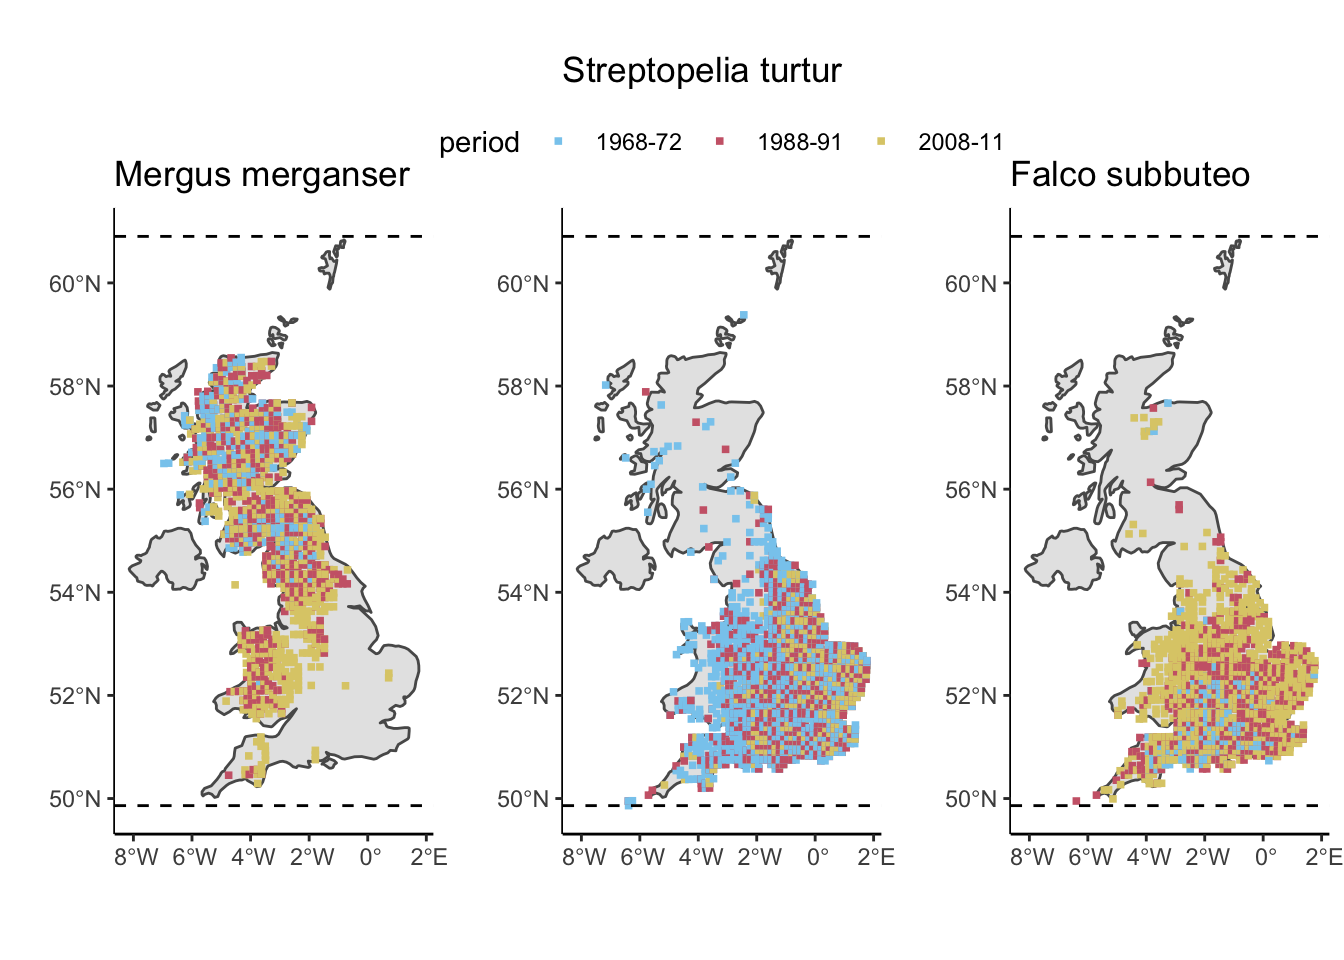
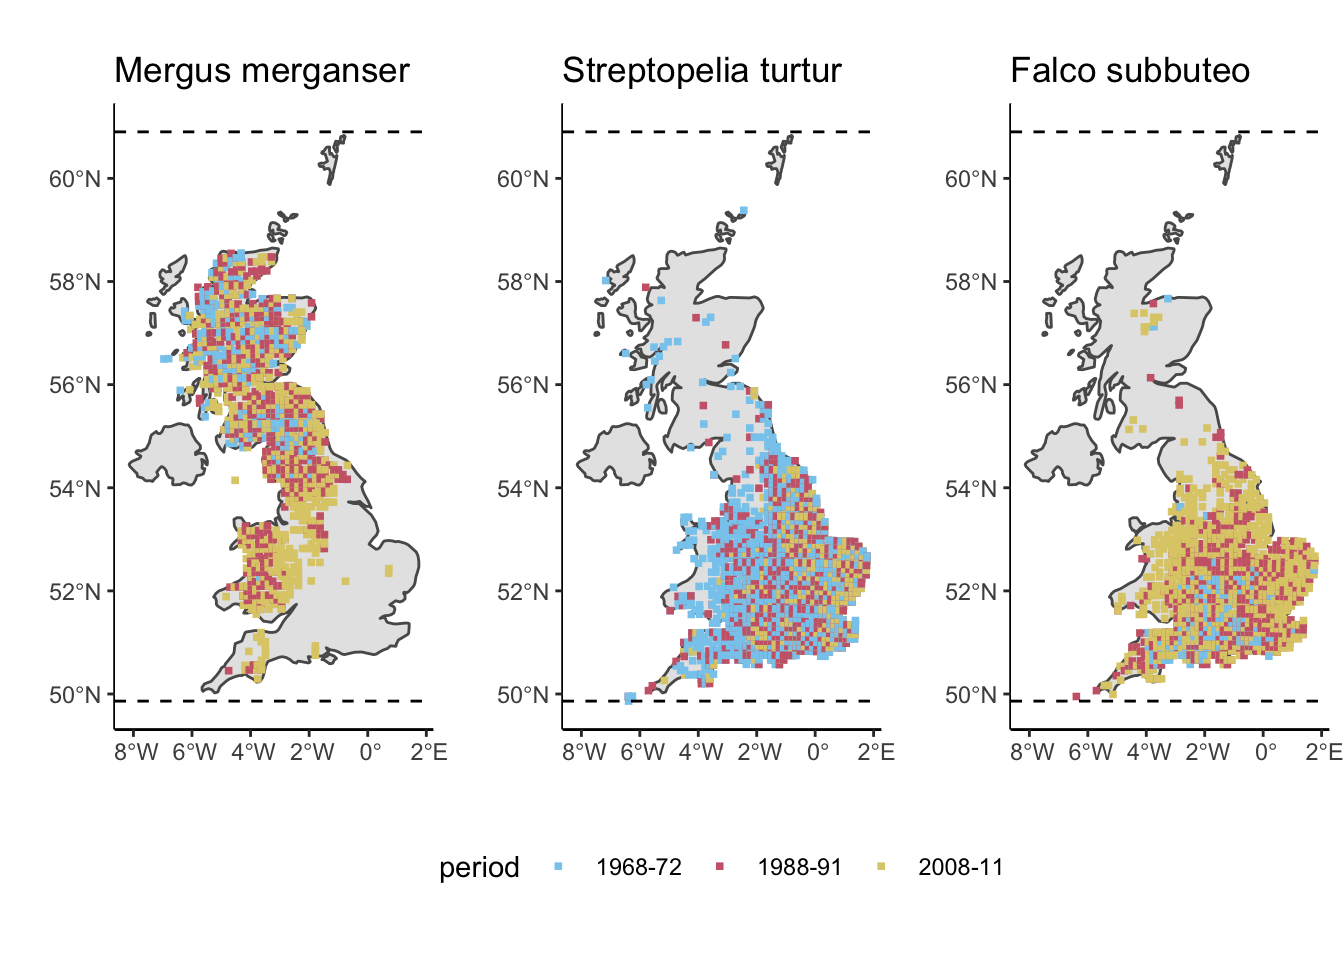
maps for lesson 4

diff --git a/lesson-4.html b/lesson-4.html
@@ -319,7 +319,6 @@ BTO_sp &lt;- read.csv(&quot;https://raw.githubusercontent.com/mlurgi/serrapilhei
 ## BTO grid data
 BTO_grid &lt;- read.csv(&quot;https://raw.githubusercontent.com/mlurgi/serrapilheira_eco_networks/master/datasets/bto/grid_square_coordinates_lookup.csv&quot;, header=T)
 
-
 # Subset distribution data to Britain. This is no longer necessary due to the pre-filtered database, but I left it here for illustration
 BTO_distrib &lt;- as_tibble(BTO_distrib) %&gt;% filter(island==&quot;B&quot; &amp; season==&quot;B&quot; &amp; resolution==10)
 
@@ -332,7 +331,6 @@ BTO_distrib$Pres &lt;- 1
 
 #####################
 # Grid and BTO Locations
-
 # Coordinates: We obtain the coordinates of the centre for each grid cell
 Coord10 &lt;- as_tibble(BTO_grid) %&gt;%
   dplyr::filter(resolution==10 &amp; order&lt;5) %&gt;%
@@ -349,19 +347,16 @@ Loc10 &lt;- Loc10 %&gt;%  filter(!is.na(long) &amp; !is.na(lat))
 
 # Plot the coordinates on the map to make sure they make sense
 ggplot(data = sf_UK) + geom_sf() +
-  geom_point(data = Loc10, aes(x = long, y = lat), size = 1, shape = 23, fill = &quot;darkred&quot;)
-
-# Join coordinates to occurrence data
+  geom_point(data = Loc10, aes(x = long, y = lat), size = 1, shape = 23, fill = &quot;darkred&quot;)</code></pre>
+<p><img src="lesson-4_files/figure-html/unnamed-chunk-1-1.png" width="100%" style="display: block; margin: auto;" /></p>
+<pre class="r"><code># Join coordinates to occurrence data
 BTO_distrib &lt;- BTO_distrib %&gt;%  left_join(Loc10, by=&#39;grid&#39;)
 BTO_distrib &lt;- BTO_distrib %&gt;% filter(!is.na(long) &amp; !is.na(lat))
 
-
 #####################
 # BTO Species
-
 ## 3 different periods
 period &lt;- unique(BTO_distrib$period)
-period
 
 # Nb of grid cells species have been observed
 Ngrid &lt;- BTO_distrib %&gt;%
@@ -375,37 +370,45 @@ Spec  &lt;- Spec %&gt;%  left_join(Ngrid, by = c(&quot;speccode&quot; = &quot;sp
 # We only consider species present in at least 50 cells across all time periods
 Spec  &lt;- Spec %&gt;% filter(P.1&gt;=50 &amp; P.2&gt;=50 &amp; P.3&gt;=50) 
 
-
 # Now that we have the data organised we can look at the range shift of some sample species through time
 safe_colorblind_palette &lt;- c(&quot;#88CCEE&quot;, &quot;#CC6677&quot;, &quot;#DDCC77&quot;)
 
 #################
 loc = merge(Loc10, BTO_distrib[which(BTO_distrib$speccode == 95),])
-Spec[which(Spec$speccode == 95),]
-
-a &lt;- ggplot(data = sf_UK) + geom_sf() + geom_point(data = loc, aes(x = long, y = lat, colour = period), size = 1, shape = 15) + scale_colour_manual(values = safe_colorblind_palette[1:3])+
+Spec[which(Spec$speccode == 95),]</code></pre>
+<pre><code>## # A tibble: 1 × 7
+##   speccode english_name scientific_name  taxonomic_rank   P.1   P.2   P.3
+##      &lt;int&gt; &lt;chr&gt;        &lt;chr&gt;            &lt;chr&gt;          &lt;int&gt; &lt;int&gt; &lt;int&gt;
+## 1       95 Goosander    Mergus merganser Species          411   674   870</code></pre>
+<pre class="r"><code>a &lt;- ggplot(data = sf_UK) + geom_sf() + geom_point(data = loc, aes(x = long, y = lat, colour = period), size = 1, shape = 15) + scale_colour_manual(values = safe_colorblind_palette[1:3])+
   geom_hline(yintercept = max(BTO_distrib$lat), linetype=&quot;dashed&quot;) + geom_hline(yintercept = min(BTO_distrib$lat), linetype=&quot;dashed&quot;) + 
   ggtitle(&quot;Mergus merganser&quot;) + ylab(&quot;&quot;) + xlab(&quot;&quot;) + theme_classic(base_size =  11) + theme(legend.position = &#39;none&#39;)
 
 #################
 loc = merge(Loc10, BTO_distrib[which(BTO_distrib$speccode == 272),])
-Spec[which(Spec$speccode == 272),]
-
-b &lt;- ggplot(data = sf_UK) + geom_sf() + geom_point(data = loc, aes(x = long, y = lat, colour = period), size = 1, shape = 15) + scale_colour_manual(values = safe_colorblind_palette[1:3])+
+Spec[which(Spec$speccode == 272),]</code></pre>
+<pre><code>## # A tibble: 1 × 7
+##   speccode english_name scientific_name     taxonomic_rank   P.1   P.2   P.3
+##      &lt;int&gt; &lt;chr&gt;        &lt;chr&gt;               &lt;chr&gt;          &lt;int&gt; &lt;int&gt; &lt;int&gt;
+## 1      272 Turtle Dove  Streptopelia turtur Species         1252   940   617</code></pre>
+<pre class="r"><code>b &lt;- ggplot(data = sf_UK) + geom_sf() + geom_point(data = loc, aes(x = long, y = lat, colour = period), size = 1, shape = 15) + scale_colour_manual(values = safe_colorblind_palette[1:3])+
   geom_hline(yintercept = max(BTO_distrib$lat), linetype=&quot;dashed&quot;) + geom_hline(yintercept = min(BTO_distrib$lat), linetype=&quot;dashed&quot;) + 
-  ggtitle(&quot;Streptopelia turtur&quot;) + ylab(&quot;&quot;) + xlab(&quot;&quot;) + theme_classic(base_size =  11) + theme(legend.position = &#39;top&#39;)
+  ggtitle(&quot;Streptopelia turtur&quot;) + ylab(&quot;&quot;) + xlab(&quot;&quot;) + theme_classic(base_size =  11) + theme(legend.position = &#39;bottom&#39;)
 
 #################
 loc = merge(Loc10, BTO_distrib[which(BTO_distrib$speccode == 120),])
-Spec[which(Spec$speccode == 120),]
-
-c &lt;- ggplot(data = sf_UK) + geom_sf() + geom_point(data = loc, aes(x = long, y = lat, colour = period), size = 1, shape = 15) + scale_colour_manual(values = safe_colorblind_palette[1:3])+
+Spec[which(Spec$speccode == 120),]</code></pre>
+<pre><code>## # A tibble: 1 × 7
+##   speccode english_name scientific_name taxonomic_rank   P.1   P.2   P.3
+##      &lt;int&gt; &lt;chr&gt;        &lt;chr&gt;           &lt;chr&gt;          &lt;int&gt; &lt;int&gt; &lt;int&gt;
+## 1      120 Hobby        Falco subbuteo  Species          259   625  1033</code></pre>
+<pre class="r"><code>c &lt;- ggplot(data = sf_UK) + geom_sf() + geom_point(data = loc, aes(x = long, y = lat, colour = period), size = 1, shape = 15) + scale_colour_manual(values = safe_colorblind_palette[1:3])+
   geom_hline(yintercept = max(BTO_distrib$lat), linetype=&quot;dashed&quot;) + geom_hline(yintercept = min(BTO_distrib$lat), linetype=&quot;dashed&quot;) + 
   ggtitle(&quot;Falco subbuteo&quot;) + ylab(&quot;&quot;) + xlab(&quot;&quot;) + theme_classic(base_size =  11) + theme(legend.position = &#39;none&#39;)
 
-ggarrange(a,b,c,nrow=1)
-
-#####################
+ggarrange(a,b,c,nrow=1)</code></pre>
+<p><img src="lesson-4_files/figure-html/unnamed-chunk-1-2.png" width="100%" style="display: block; margin: auto;" /></p>
+<pre class="r"><code>#####################
 # And lastly, we compute range shifts!
 
 ## Here we quantify range shift as the difference in mean location of the 20 most northern records (leading edge) between the time period P.1 and the time period P.3. I.e. the northern edge shift from 1972 to 2011
@@ -427,15 +430,16 @@ lat.all_P.1 &lt;- sort(data.frame(BTO_distrib %&gt;% filter(speccode == spec_spe
 }
 
 # Now we plot the range shifts ranked by magnitude
-plot(rank(df_rangeshift$shift_max20_P.1.3), df_rangeshift$shift_max20_P.1.3, pch=16, xlab=&#39;rank&#39;, ylab=&#39;northern edge shift&#39;)
-
-# And how the shift relates to the centre of the range...
+plot(rank(df_rangeshift$shift_max20_P.1.3), df_rangeshift$shift_max20_P.1.3, pch=16, xlab=&#39;rank&#39;, ylab=&#39;northern edge shift&#39;)</code></pre>
+<p><img src="lesson-4_files/figure-html/unnamed-chunk-1-3.png" width="100%" style="display: block; margin: auto;" /></p>
+<pre class="r"><code># And how the shift relates to the centre of the range...
 plot(df_rangeshift$lat_centre_P.1, df_rangeshift$shift_max20_P.1.3, pch=16, xlab=&#39;latitudinal centre&#39;, ylab=&#39;range shift&#39;)</code></pre>
+<p><img src="lesson-4_files/figure-html/unnamed-chunk-1-4.png" width="100%" style="display: block; margin: auto;" /></p>
 </div>
 <div id="body-size" class="section level3">
 <h3>Body size</h3>
 <p><img src="lesson-images/temp-vs-size.png"
-style="float:right; padding-left:10px" width="200" /></p>
+style="float:right; padding-left:10px" width="300" /></p>
 <p>A second universal response to climate change is changes on body
 size. Both within species and the distribution of body sizes across
 species within communities. This response can be linked to three
@@ -499,6 +503,7 @@ and stability of ecosystems.</p>
 <strong>Effects of warming on species interactions</strong> Image taken
 from Lurgi et al. (2012).
 </center>
+<p><br></p>
 <p>In particular, <strong>novel communities are expected to be
 characterised by</strong>:</p>
 <p>1.- A reduction of species body sizes <br> 2.- A shift in the
@@ -751,8 +756,8 @@ misleading picture, <a
 href="https://theconversation.com/habitat-loss-doesnt-just-affect-species-it-impacts-networks-of-ecological-relationships-117687">leading
 us to greatly underestimate the actual damage on ecosystem
 organisation</a>.</p>
-<div class="figure" style="text-align: right">
-<img src="lesson-images/habitat-loss-plant-pol-networks.png" alt="**Effects of habitat loss on network structure.** Image taken from Hagen et al. (2012)" width="60%" />
+<div class="figure" style="text-align: center">
+<img src="lesson-images/habitat-loss-plant-pol-networks.png" alt="**Effects of habitat loss on network structure.** Image taken from Hagen et al. (2012)" width="100%" />
 <p class="caption">
 <strong>Effects of habitat loss on network structure.</strong> Image
 taken from Hagen et al. (2012)
